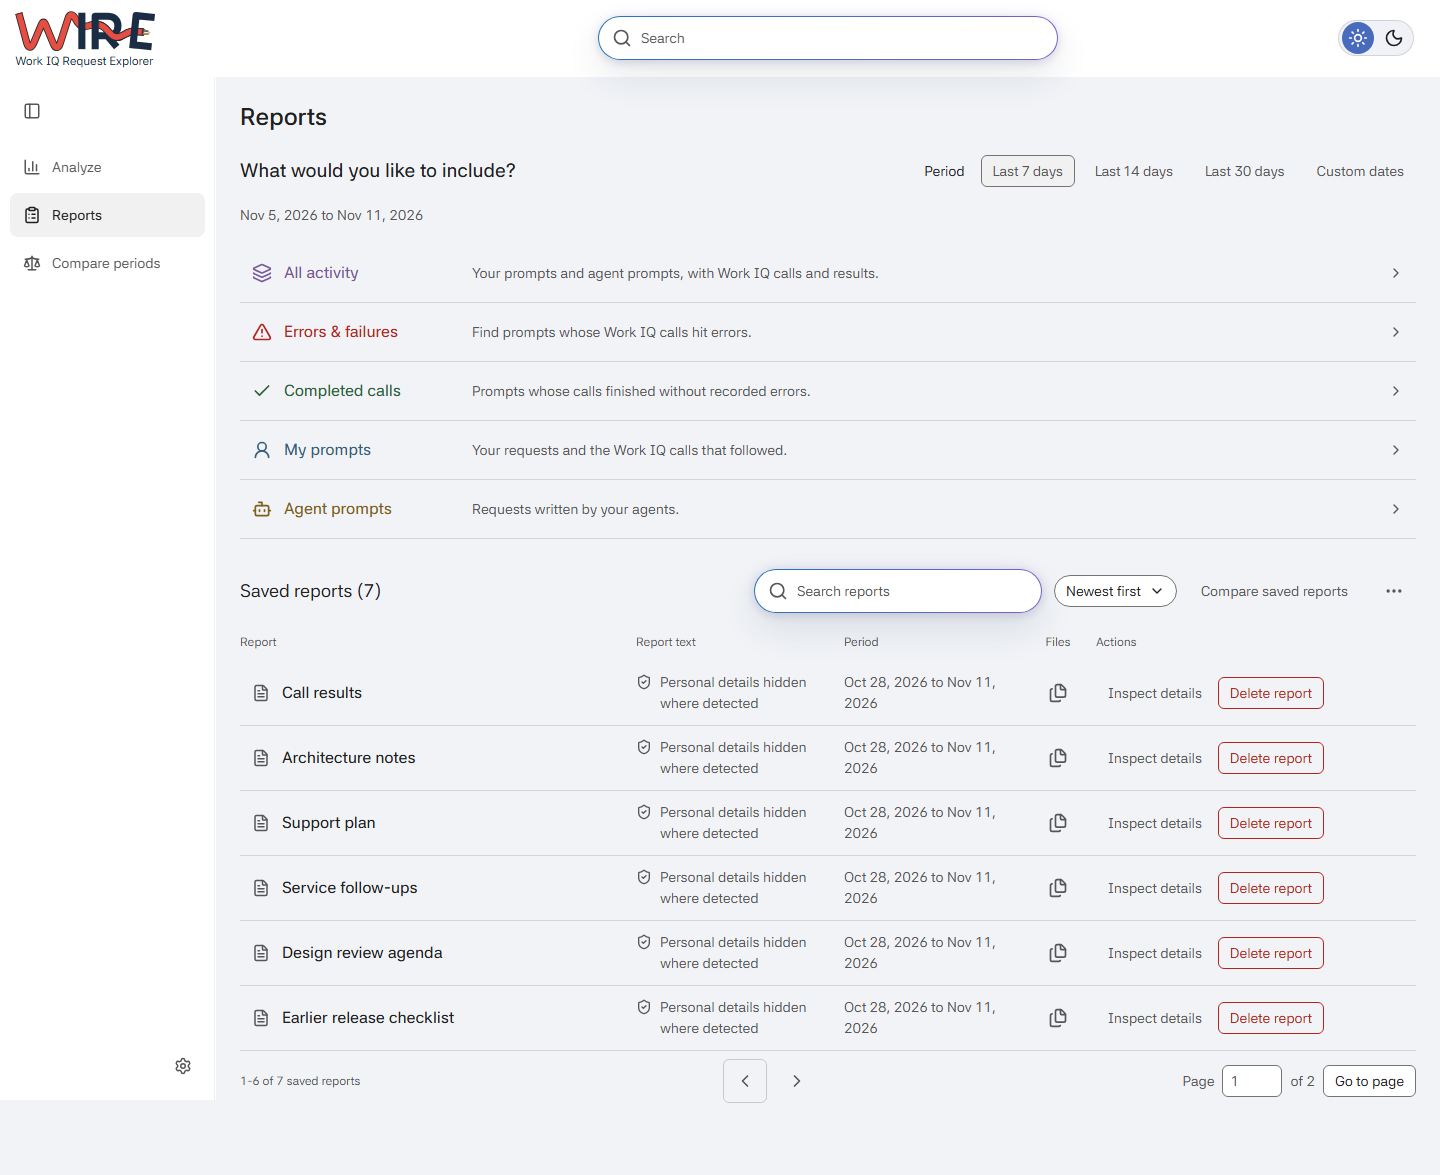
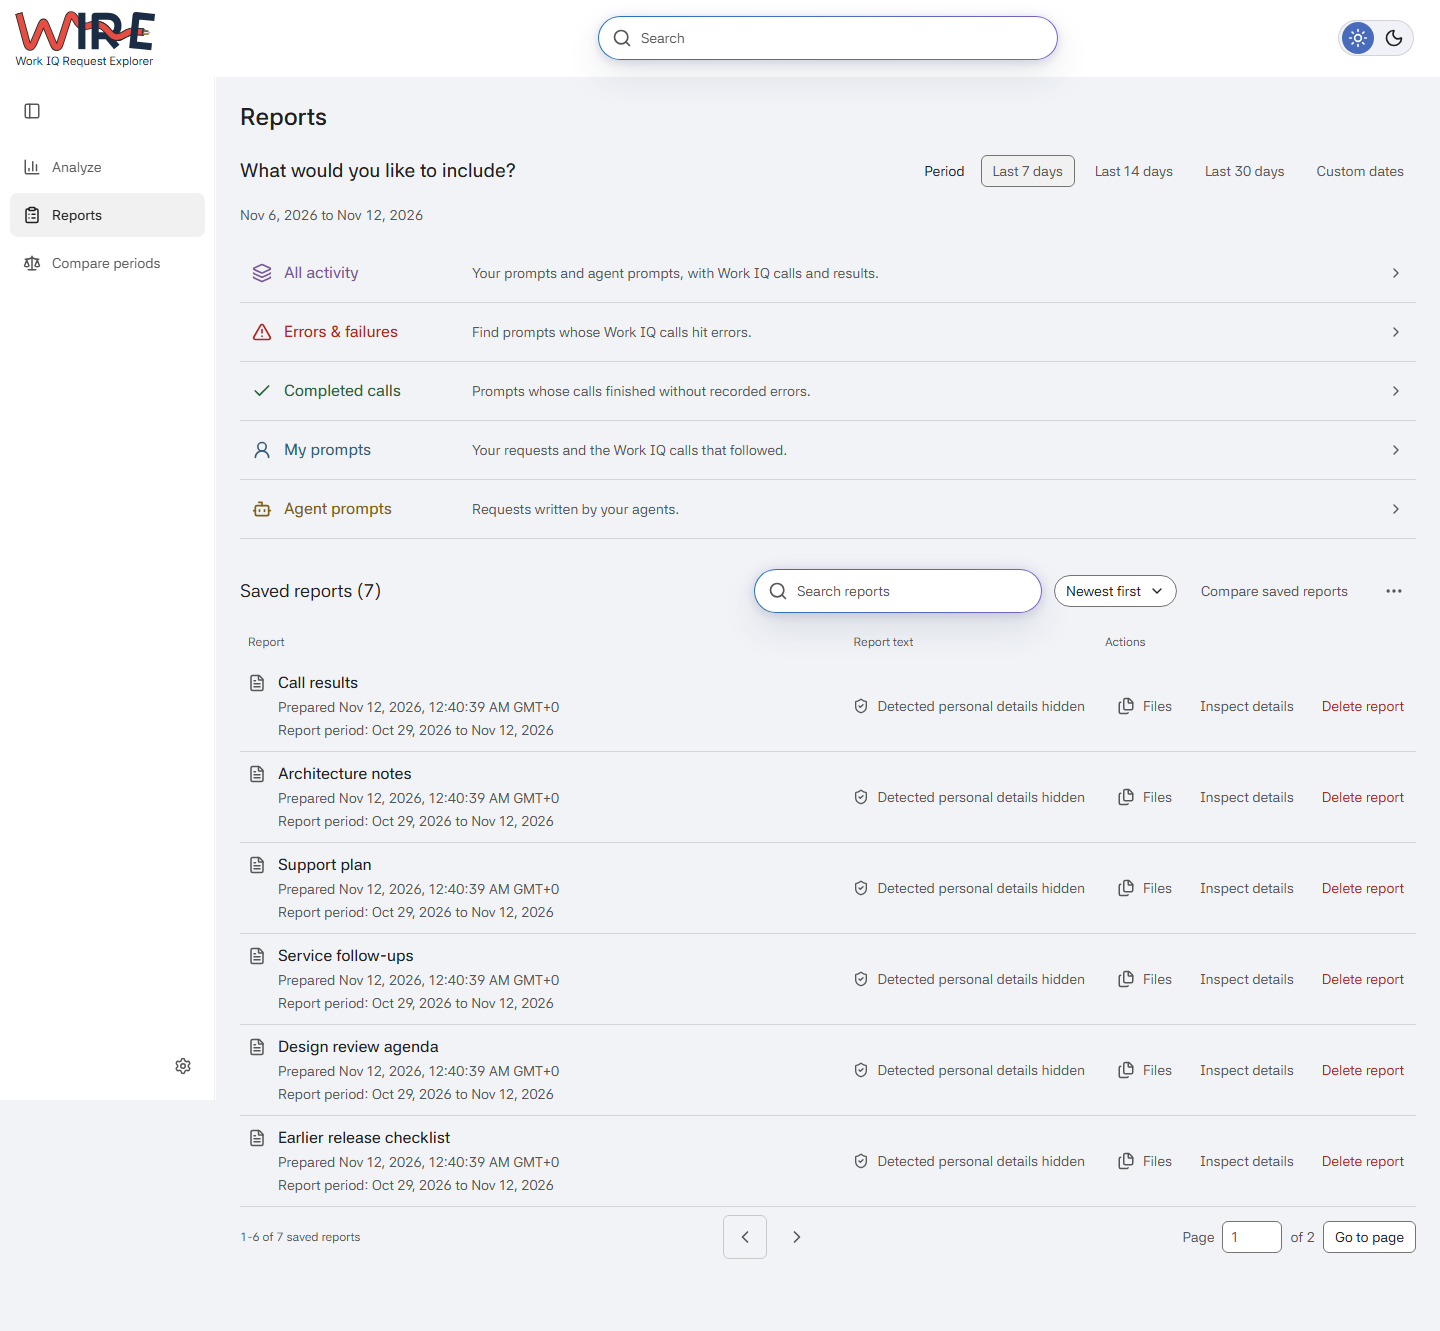
Balance saved report rows and retain their periods
Separate preparation times from report names, group visible file/inspect/delete actions, and preserve the saved date selection independently of report presets. Validate indexed periods against frozen manifests without rewriting historical reports.

diff --git a/docs/interaction-design.md b/docs/interaction-design.md
@@ -220,19 +220,23 @@ directly. A fresh report ignores old Analyze restrictions.
 Selected and Current remain available through inclusion
 controls and their original context-qualified entries.
 
-Saved rows align Report, Report text, Period, Files and Actions. The name and its leading document
-icon open in-app reading; one separate Files control offers registered formats.
+Saved rows align Report, Report text and Actions. The name and its leading document
+icon open in-app reading. Preparation time is a secondary line under the name,
+not part of a generated title. Known saved periods appear there separately.
+A single list note identifies missing period metadata instead of repeating
+"Not recorded" in a mostly empty column. It does not infer a period from preparation time.
+Files, Inspect details and Delete stay together as visible, labeled row actions.
 A padded title target owns its hover and keyboard-focus background. Keep the
 text-treatment icon and its explanation in their own column. This secondary,
 regular-weight text stays visible and readable without hovering; it makes no
 anonymization guarantee, and missing metadata is not inferred.
-Inspect details and Delete report/comparison are visible, labeled row actions;
-the header menu preserves bulk deletion with its existing confirmation.
+Delete uses a quiet text treatment; its confirmation retains the destructive action.
+The header menu preserves bulk deletion with its existing confirmation.
 Inspection alone does not read, download or delete a file.
 Every report choice has accessible help. Saved-report paging follows the rows
 in visual and keyboard order. Privacy and file actions keep their separate
-meaning. Reflow the period under the title based on the list's available width
-and text size before secondary columns squeeze the name.
+meaning. Rows share column widths; narrow layouts stack identity/dates, text
+treatment and actions without shortening their contents.
 
 ### Returning to an unfinished report
 

diff --git a/docs/reporting.md b/docs/reporting.md
@@ -183,6 +183,11 @@ treatment beside its icon; missing older metadata stays unrecorded.
 metadata. In the reader, choose **Report** to return from a file preview, or
 **Download** to retrieve that file's original bytes.
 
+**Prepared** is when the report was created. **Report period** is its saved date
+selection; **All retained dates** means no date restriction. Older saved-list
+entries may not include a period, even when dates appear inside the report.
+WIRE does not replace a missing period with the preparation time or current filters.
+
 ![A saved report opened at an interaction, with its prompt and recorded calls beneath the section navigation.](images/saved-report.png)
 
 Older unverified reports keep their warning before **View report**. Missing,

diff --git a/docs/report-contract.md b/docs/report-contract.md
@@ -200,6 +200,12 @@ Original evidence-file identity also keys the report read model, so reading
 a saved report cannot replace current Analyze facts. Saving appends to current
 state; it never restores the preview's evidence snapshot over newer collection.
 
+New ordinary saved entries retain their snapshot's date selection as `reportPeriod`,
+independently of report presets. When present it must match the frozen manifest
+and participates in the artifact fingerprint. Older entries without it remain
+readable; missing index metadata is not evidence that the file has no period.
+Preparation timestamps never substitute for the saved date selection.
+
 ### Report text choices
 
 | Text choice | Required treatment |
